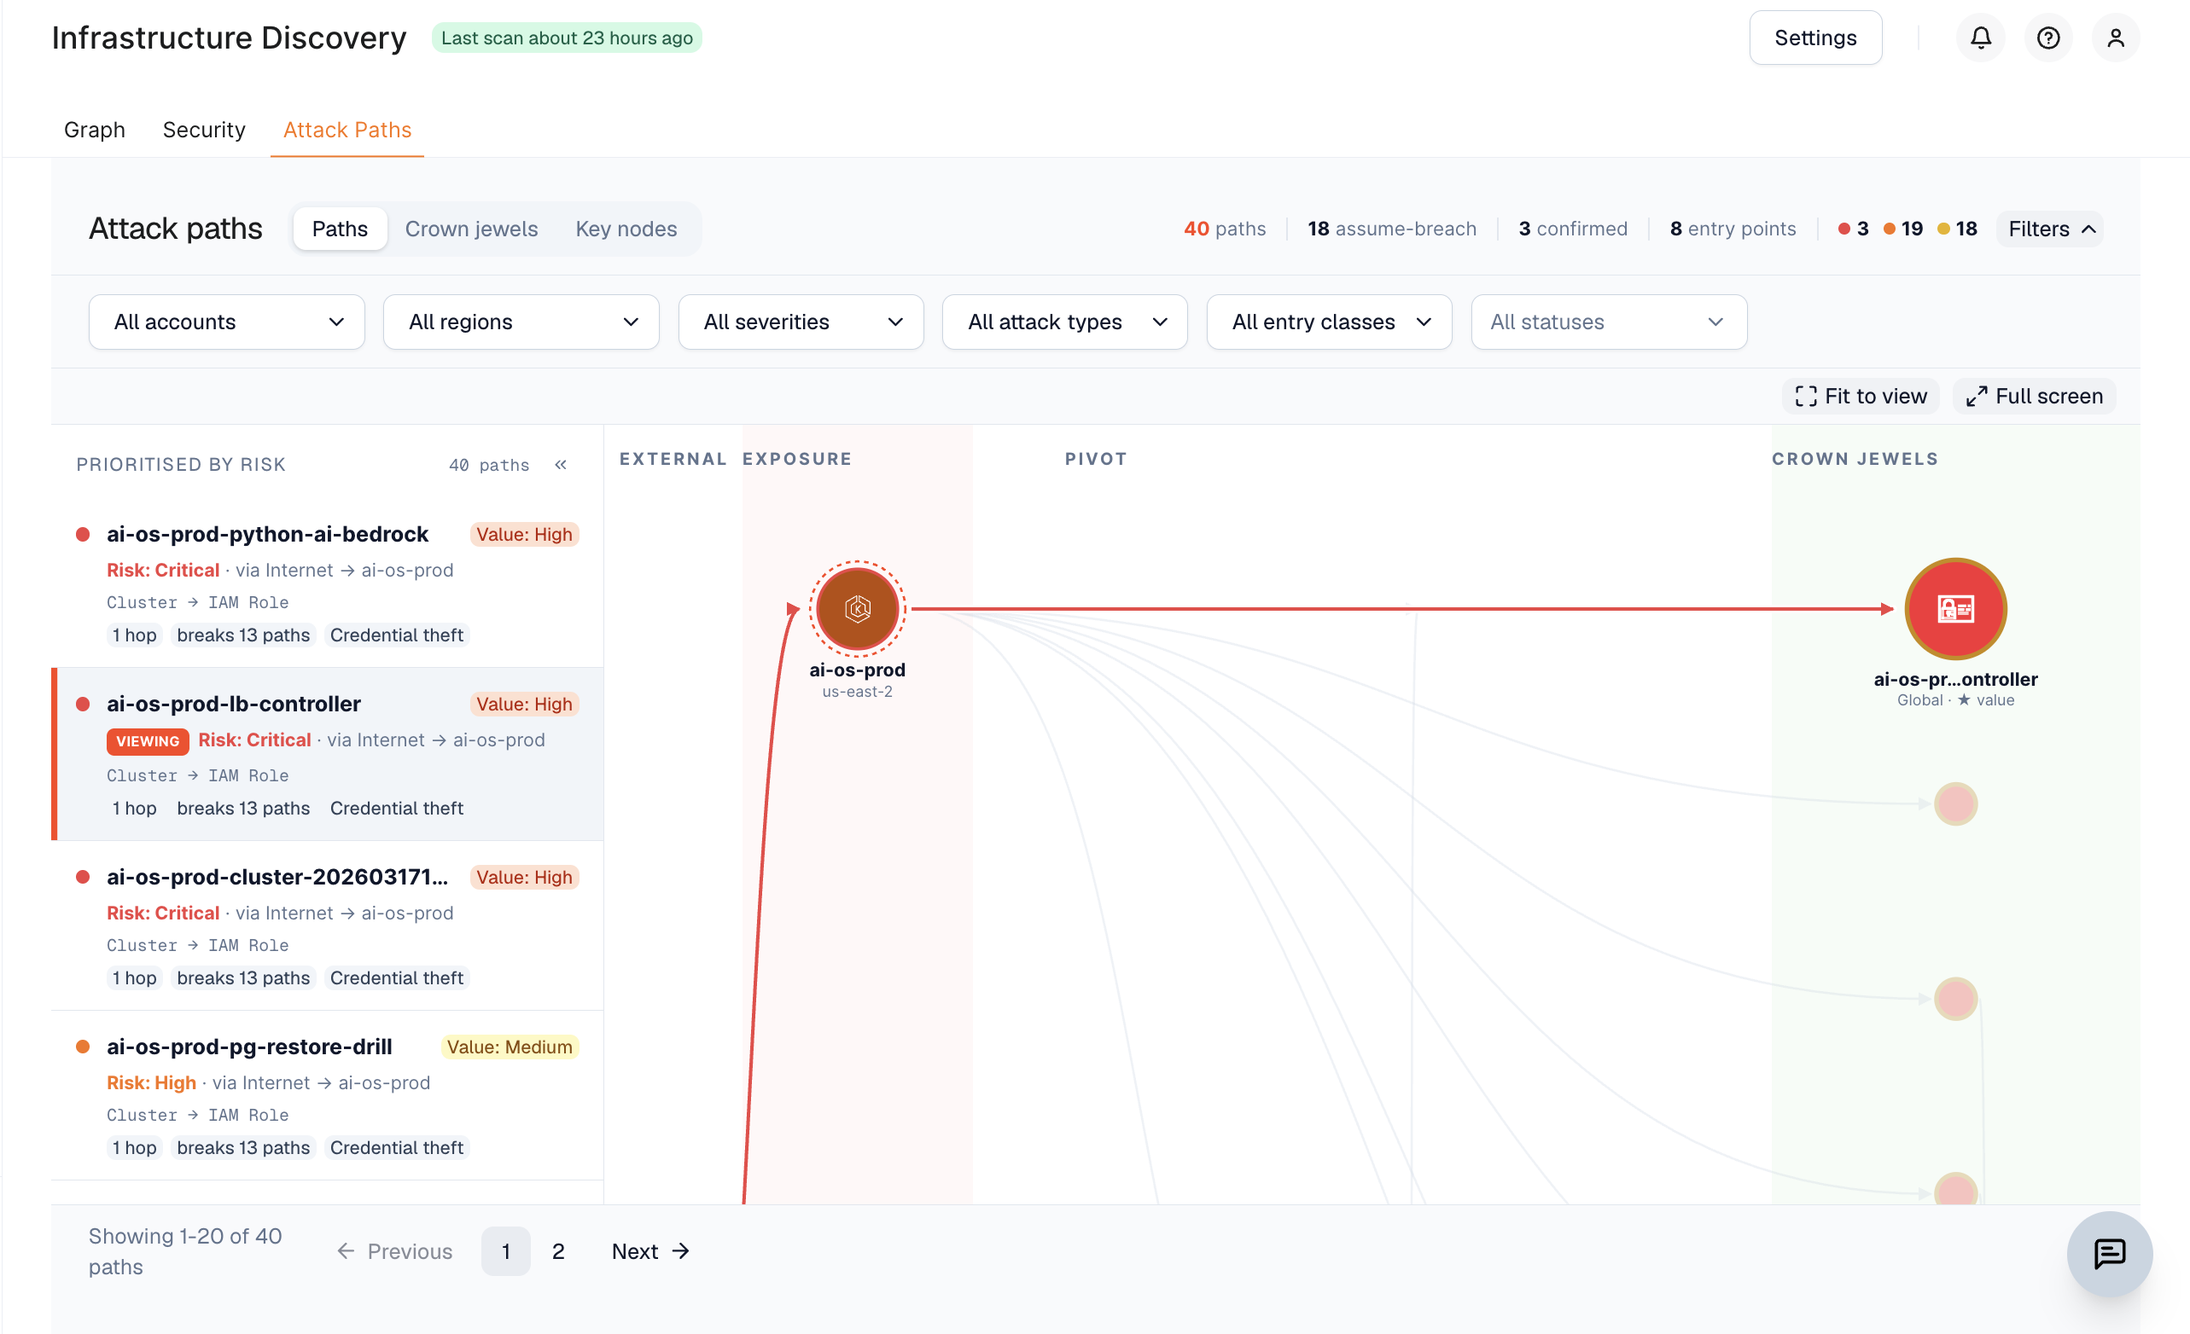
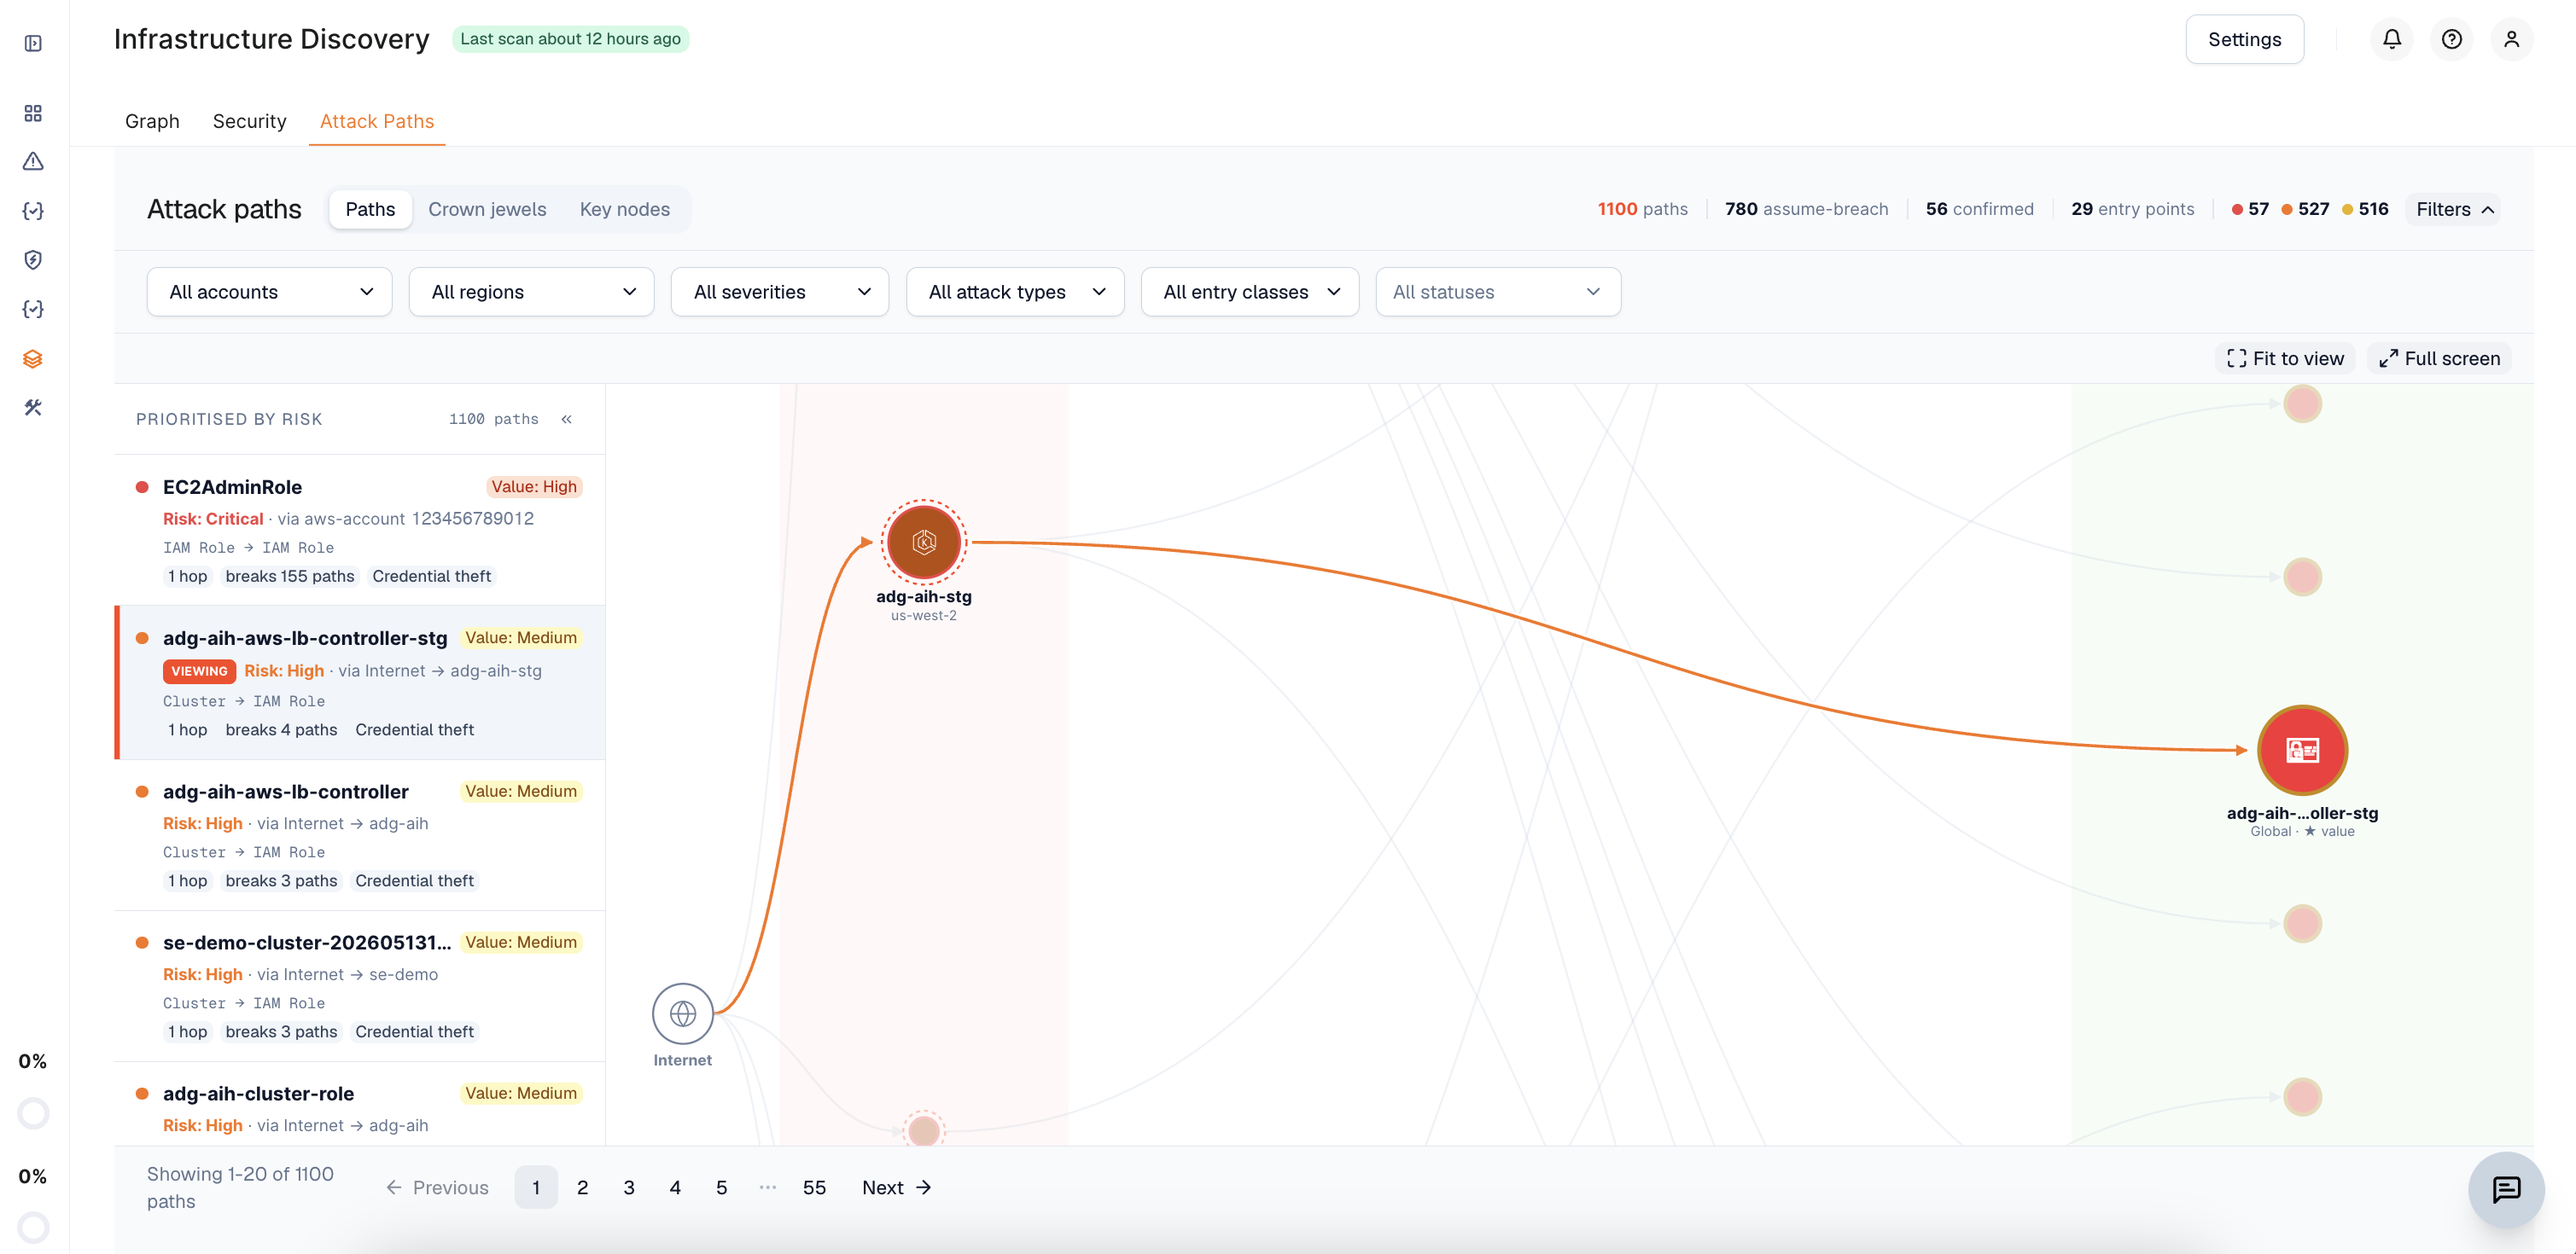
review the attack path docs for ID

diff --git a/docs/latest/infrastructure-discovery/attack-paths.md b/docs/latest/infrastructure-discovery/attack-paths.md
@@ -17,7 +17,7 @@ Every hop is backed by a specific configuration fact — a public API endpoint, 
 !!! info "Read-only analysis"
     Infrastructure Discovery never modifies your cloud resources, so it does not remediate a path for you. Use the recommendation it provides to make the change in AWS, or handle the underlying finding with [policies](exploring.md#policies).
 
-### Concepts
+## Concepts
 
 | Term | Meaning |
 | --- | --- |
@@ -27,17 +27,21 @@ Every hop is backed by a specific configuration fact — a public API endpoint, 
 | **Choke point** | The single resource a path — and often several others — must pass through, which makes it the highest-leverage place to break the chain. It is frequently a shared role, security group, or subnet in the middle of the chain rather than the entrance. |
 | **Risk** | The headline rating of a path, from low to critical. It combines how reachable the entry is, what the permissions on each hop allow, the value of the target, and the length of the chain. Risk never exceeds what the target is worth, so a route to a low-value resource does not surface as critical. |
 | **Attack type** | What the attacker gains at the end: **credential theft** (the chain ends at a secret, key, or identity), **data exfiltration** (it ends at a data store), or **reaches crown jewel** for chains that match neither shape. |
-| **Confidence** and **modality** | Per-hop honesty markers. Confidence runs from 0 to 100. Modality is **Allowed** when the configuration permits the hop, or **Observed** when the hop was seen in traffic and log data. |
+| **Confidence** and **modality** | Per-hop markers of evidence quality, kept separate from **Risk**: confidence rates how sure the analysis is that a hop exists, from 0 to 100 — not how dangerous it is. It is scored per hop, then reduced to the lowest score along the path, so one weak hop caps the whole chain.<br><br>Main drivers: the kind of hop (network reachability, identity and permission grants, trust-based entry, privilege escalation, exploitability), how directly it was resolved, how broad the access is, and any mitigating condition such as a permission boundary.<br><br>Modality reflects the evidence itself — **Observed** when the hop was seen happening in traffic or log data, or **Allowed** when the configuration merely permits it. |
 
 ## Paths
 
-The **Paths** sub-tab pairs a list of routes with a graph of the selected one. The header summarizes the current scope — total paths, how many are assume-breach and how many confirmed, the number of entry points, and a breakdown by risk. Filter the view by account, region, severity, attack type, entry class, and status.
+The **Paths** sub-tab pairs a list of routes with a graph of the selected one. The header summarizes the current scope — total paths, how many are assume-breach and how many confirmed, the number of entry points, and a breakdown by risk.
 
 The list is ordered by risk. Each row names the target and its value, the risk rating, the route in brief (for example, `via Internet → ai-os-prod`), the resource types along the chain, the hop count, how many paths break if you fix this one, and the attack type.
 
-Selecting a row draws that path on the graph, which is laid out in three lanes — **External exposure**, **Pivot**, and **Crown jewels** — so you can read where a route starts and where it ends. Use **Fit to view** to frame the selected path, or **Full screen** for a large estate.
+Selecting a row draws that path on the graph, which is laid out in three lanes — **External exposure**, **Pivot**, and **Crown jewels** — so you can read where a route starts and where it ends.
 
 ![Attack paths list](../images/infrastructure-discovery/attack-paths.png)
+
+Filter the view by account, region, severity, attack type, entry class, and status.
+
+Use **Fit to view** to frame the selected path, or **Full screen** for a large estate.
 
 Open a path to see the reasoning behind it:
 
@@ -55,7 +59,7 @@ The **Crown jewels** sub-tab is the inventory of what Infrastructure Discovery t
 
 Targets are either detected automatically from the resource type and its configuration, or pinned manually. Automatic detection reads your own metadata: a `prod` environment tag, a data classification tag such as `pii` or `pci`, a name containing `payment` or `customer`, administrative privilege, or deletion protection all raise the value of a resource, while a `dev`, `test`, or `staging` tag lowers it. Tagging your resources consistently is therefore the most effective way to make the ranking match your business, because it improves every path at once rather than one target at a time.
 
-<!-- TODO: add screenshot of the Crown jewels sub-tab -->
+![Attack paths list](../images/infrastructure-discovery/crown-jewels.png)
 
 ## Key nodes
 
@@ -67,7 +71,7 @@ Where **Paths** shows routes, the **Key nodes** sub-tab shows the resources thos
 
 Some choke points have no live path today. The misconfiguration is still real and still worth fixing before something else connects to it.
 
-<!-- TODO: add screenshot of the Key nodes sub-tab -->
+![Attack paths list](../images/infrastructure-discovery/key-nodes.png)
 
 ## Accuracy and limits
 
